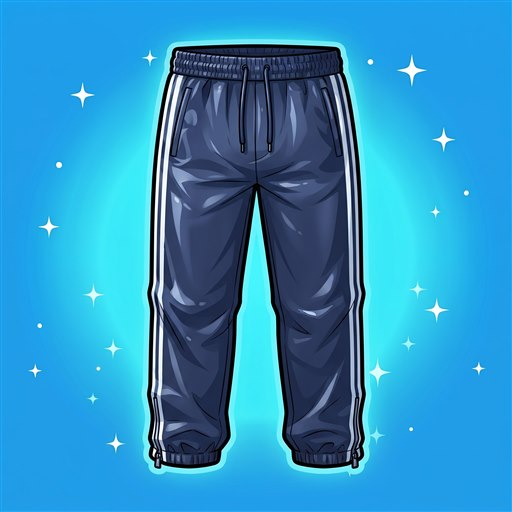
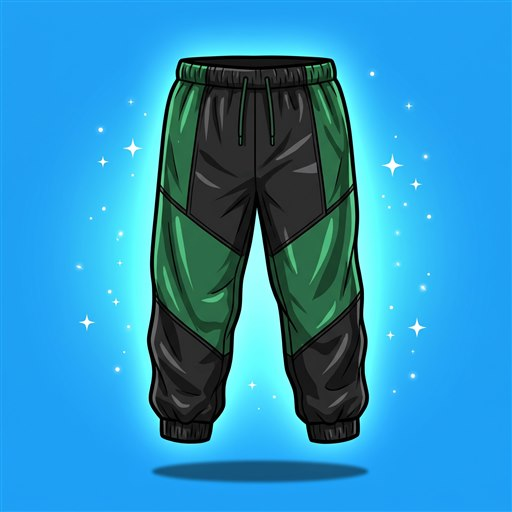
New art for 15 items without brands: 4 trousers, 5 jackets, 6 watches (rose gold watch now on a gold card)

diff --git a/js/data.js b/js/data.js
@@ -81,19 +81,19 @@ export const ITEM_BASES = {
   // jacket and pants give armor (share of damage stopped, see F.reduction)
   // trousers: all common (blue background), sold in Oblečenie
   jeans_blue: { slot: 'nohavice', name: 'Modré rifle', art: 'x_jeans_blue', stats: { armor: 2 }, rarity: 'bezny', desc: 'Obyčajné rifle. Presne v takých ťa svedok nevie popísať.' },
-  track_pants: { slot: 'nohavice', name: 'Šuštiaky', art: 'x_track_pants', stats: { armor: 2 }, rarity: 'bezny', desc: 'Šuchocú pri každom kroku. Na tiché vlámanie si vezmi niečo iné.' },
+  track_pants: { slot: 'nohavice', name: 'Šušťákové nohavice', art: 'x_track_pants', stats: { armor: 2 }, rarity: 'bezny', desc: 'Šuchocú pri každom kroku. Na tiché vlámanie si vezmi niečo iné.' },
   cargo_olive: { slot: 'nohavice', name: 'Olivové kapsáče', art: 'x_cargo_olive', stats: { armor: 2 }, rarity: 'bezny', desc: 'Bočné vrecká na všetko, čo nemáš mať pri sebe. Šnúrky dole proti prievanu aj psom.' },
   carpenter_pants: { slot: 'nohavice', name: 'Robotnícke nohavice', art: 'x_carpenter_pants', stats: { armor: 2 }, rarity: 'bezny', desc: 'Dvojité kolená, lebo na kolenách sa tu často končí. Aj začína.' },
   cargo_camo: { slot: 'nohavice', name: 'Maskáčové kapsáče', art: 'x_cargo_camo', stats: { armor: 2 }, rarity: 'bezny', desc: 'Maskáč v meste nemaskuje nič. Ale vyzerá, že vieš, čo robíš.' },
   sweatpants: { slot: 'nohavice', name: 'Sivé tepláky', art: 'x_sweatpants', stats: { armor: 2 }, rarity: 'bezny', desc: 'Večierka o druhej ráno, výsluch o tretej. Pohodlné na oboje.' },
   jeans_ripped: { slot: 'nohavice', name: 'Roztrhané čierne rifle', art: 'x_jeans_ripped', stats: { armor: 2 }, rarity: 'bezny', desc: 'Diery na kolenách nie sú z módy. Sú z plota pri Starom moste.' },
   shorts_ball: { slot: 'nohavice', name: 'Basketbalové trenky', art: 'x_shorts_ball', stats: { armor: 2 }, rarity: 'bezny', desc: 'Fialovo-zlaté, dlhé po kolená. Na ihrisku za bytovkou sa v nich rozdávajú karty aj rany.' },
-  cargo_compass: { slot: 'nohavice', name: 'Grafitové kapsáče s kompasom', art: 'x_cargo_compass', stats: { armor: 2 }, rarity: 'epicky', desc: 'Kompas na vrecku, aby si vždy trafil k Čiernemu trhu. Domov už nie.' },
-  track_monogram: { slot: 'nohavice', name: 'Monogramové tepláky', art: 'x_track_monogram', stats: { armor: 2 }, rarity: 'epicky', desc: 'Zlaté písmená od pása po členky. Kto ich nosí, nemusí nikomu hovoriť, koľko zarobil.' },
+  cargo_compass: { slot: 'nohavice', name: 'Čierne kapsáče s reťazou', art: 'x_cargo_compass', stats: { armor: 2 }, rarity: 'epicky', desc: 'Šesť vreciek, popruhy a reťaz od peňaženky. Vreckár by si na nich vylámal prsty.' },
+  track_monogram: { slot: 'nohavice', name: 'Zamatové tepláky', art: 'x_track_monogram', stats: { armor: 2 }, rarity: 'epicky', desc: 'Smaragdový zamat a zlaté zipsy na vreckách. Pohodlné ako pyžamo, drahé ako oblek.' },
   jeans_biker: { slot: 'nohavice', name: 'Rozbité rifle s chráničmi', art: 'x_jeans_biker', stats: { armor: 2 }, rarity: 'epicky', desc: 'Diery stoja viac ako celé nohavice v obchode. Čierne chrániče sú tam pre prípad, že kľačíš pred niekým, kto ti dlží.' },
-  leather_crosses: { slot: 'nohavice', name: 'Kožené nohavice so striebornými krížmi', art: 'x_leather_crosses', stats: { armor: 2 }, rarity: 'legendarny', desc: 'Šnurovanie po bokoch a strieborné kríže. Nosí ich ten, kto sa za hriechy nemodlí, ale platí. Vypadnú len z bossa.' },
+  leather_crosses: { slot: 'nohavice', name: 'Pytónové nohavice', art: 'x_leather_crosses', stats: { armor: 2 }, rarity: 'legendarny', desc: 'Čierno-zlatá hadia koža od pása po členky. Had ich nosil prvý, ty druhý. Vypadnú len z bossa.' },
   // illustrated pieces with a fixed rarity (art background: blue = common, pink = epic, gold / purple = legendary)
-  jacket_puffer: { slot: 'bunda', name: 'Lesklá páperovka', art: 'x_jacket_puffer', stats: { armor: 3 }, rarity: 'epicky', desc: 'Lesk ako čerstvo navoskované auto. Na corneri ťa v nej spoznajú aj potme.' },
+  jacket_puffer: { slot: 'bunda', name: 'Kožená letecká bunda', art: 'x_jacket_puffer', stats: { armor: 3 }, rarity: 'epicky', desc: 'Hnedá koža, kožušinový golier a zips, ktorý vydrží aj pád z motorky. Stará škola nevyjde z módy.' },
   // jackets: blue background = common (shops), pink = epic (Black Market), gold = legendary (bosses)
   puffer_red: { slot: 'bunda', name: 'Červená páperovka', art: 'x_puffer_red', stats: { armor: 3 }, rarity: 'bezny', desc: 'Teplá, lacná a vidno ju z druhého konca ulice. Na tiché akcie sa nehodí.' },
   varsity_gold: { slot: 'bunda', name: 'Klubová bunda so zlatými rukávmi', art: 'x_varsity_gold', stats: { armor: 3 }, rarity: 'bezny', desc: 'Z bazáru. Tím, za ktorý kedysi hrala, už dávno neexistuje. Ty áno.' },
@@ -101,10 +101,10 @@ export const ITEM_BASES = {
   varsity_red: { slot: 'bunda', name: 'Školská bunda s H', art: 'x_varsity_red', stats: { armor: 3 }, rarity: 'bezny', desc: 'H ako Hits. Alebo Hustler. Alebo Hlupák, záleží, kto sa pýta.' },
   work_jacket: { slot: 'bunda', name: 'Robotnícka bunda', art: 'x_work_jacket', stats: { armor: 3 }, rarity: 'bezny', desc: 'Menčestrový golier a ošúchané lakte. Vyzeráš, že poctivo robíš. Nerobíš.' },
   bomber_olive: { slot: 'bunda', name: 'Olivová bomberka', art: 'x_bomber_olive', stats: { armor: 3 }, rarity: 'bezny', desc: 'Oranžová podšívka svieti ako výstražné svetlo. Ideálna na rýchle odchody.' },
-  track_navy: { slot: 'bunda', name: 'Tepláková bunda', art: 'x_track_navy', stats: { armor: 3 }, rarity: 'bezny', desc: 'Tri pásiky, jeden zips a nulový rešpekt k dress codu.' },
-  jacket_compass: { slot: 'bunda', name: 'Bunda s kompasom', art: 'x_jacket_compass', stats: { armor: 3 }, rarity: 'epicky', desc: 'Odznak s kompasom na rukáve. Ukazuje jediný smer, ktorý poznáš: preč od polície.' },
-  parka_fur: { slot: 'bunda', name: 'Parka s kožušinou', art: 'x_parka_fur', stats: { armor: 3 }, rarity: 'epicky', desc: 'Kapucňa s kožušinou a štyri vrecká. Nikto nevie, čo v nich nosíš, a tak to má byť.' },
-  puffer_hood: { slot: 'bunda', name: 'Čierna páperovka s kapucňou', art: 'x_puffer_hood', stats: { armor: 3 }, rarity: 'epicky', desc: 'Čierna a lesklá ako mokrý asfalt o tretej ráno. Zima ťa v nej nedostane. Konkurencia možno.' },
+  track_navy: { slot: 'bunda', name: 'Šušťáková bunda', art: 'x_track_navy', stats: { armor: 3 }, rarity: 'bezny', desc: 'Rovno z deväťdesiatok: čierna, zelená, biela a jeden zips pod bradu. Nulový rešpekt k dress codu.' },
+  jacket_compass: { slot: 'bunda', name: 'Saténová bunda s drakom', art: 'x_jacket_compass', stats: { armor: 3 }, rarity: 'epicky', desc: 'Čierny satén a zlatý drak na hrudi. Drak strážil poklad, ty strážiš rajón.' },
+  parka_fur: { slot: 'bunda', name: 'Čierny kožuch', art: 'x_parka_fur', stats: { armor: 3 }, rarity: 'epicky', desc: 'Dlhý, huňatý a čierny ako noc. Schová sa pod ním čokoľvek, aj brokovnica.' },
+  puffer_hood: { slot: 'bunda', name: 'Čierna mikina so zlatým zipsom', art: 'x_puffer_hood', stats: { armor: 3 }, rarity: 'epicky', desc: 'Kapucňa cez hlavu, ruky vo vrecku a zlatý zips až po bradu. Kamery vidia len tieň.' },
   biker_jacket: { slot: 'bunda', name: 'Motorkárska bunda', art: 'x_biker_jacket', stats: { armor: 3 }, rarity: 'bezny', desc: 'Šikmý zips, opasok a cvočky. Motorku nemáš, ale vyzeráš, že ťa niekde čaká.' },
   denim_jacket: { slot: 'bunda', name: 'Rifľová bunda', art: 'x_denim_jacket', stats: { armor: 3 }, rarity: 'bezny', desc: 'Vyblednutá od slnka aj od policajných svetiel. Klasika, ktorá nikdy nepýta otázky.' },
   coat_camel: { slot: 'bunda', name: 'Kabát z ťavej vlny', art: 'x_coat_camel', stats: { armor: 3 }, rarity: 'legendarny', desc: 'Dvojradový kabát, aký nosia muži, ktorí sa nikomu nemusia predstavovať. Vypadne len z bossa.' },
@@ -152,10 +152,10 @@ export const ITEM_BASES = {
   neck_tennis: { slot: 'retiazka', name: 'Diamantová tenisová retiazka', art: 'x_neck_tennis', stats: { charizma: 0.6 }, rarity: 'epicky', desc: 'Rad diamantov bez konca. Na tenis si ju nikto nikdy neobliekol.' },
   neck_clover: { slot: 'retiazka', name: 'Retiazka s čiernymi štvorlístkami', art: 'x_neck_clover', stats: { charizma: 0.6 }, rarity: 'epicky', desc: 'Päť čiernych štvorlístkov na zlatej retiazke. Šťastie, ktoré si niekto zaplatil vopred.' },
   neck_king: { slot: 'retiazka', name: 'Ľadová retiaz s kráľom', art: 'x_neck_king', stats: { charizma: 0.6 }, rarity: 'legendarny', desc: 'Šachový kráľ z diamantov s rubínom na hrudi. Pešiak sa stal kráľom. Vypadne len z bossa.' },
-  watch_rose: { slot: 'hodinky', name: 'Hodinky z ružového zlata', art: 'x_watch_rose', stats: { charizma: 0.3, stastie: 0.3 }, rarity: 'legendarny' },
-  watch_green: { slot: 'hodinky', name: 'Zelený ciferník', art: 'x_watch_green', stats: { charizma: 0.3, stastie: 0.3 }, rarity: 'legendarny' },
+  watch_rose: { slot: 'hodinky', name: 'Hodinky z ružového zlata', art: 'x_watch_rose', stats: { charizma: 0.3, stastie: 0.3 }, rarity: 'legendarny', desc: 'Tenké ako bankovka, ružové zlato a diamanty namiesto čísel. Nosia sa k obleku, nie k teplákom. Vypadnú len z bossa.' },
+  watch_green: { slot: 'hodinky', name: 'Smaragdové hodinky', art: 'x_watch_green', stats: { charizma: 0.3, stastie: 0.3 }, rarity: 'legendarny', desc: 'Venček smaragdov okolo čierneho ciferníka. Zelené ako peniaze, len vydržia dlhšie. Vypadnú len z bossa.' },
   // watches: blue = common (Šperky), pink = epic (Black Market), gold = legendary (bosses)
-  watch_smart: { slot: 'hodinky', name: 'Chytré hodinky', art: 'x_watch_smart', stats: { charizma: 0.3, stastie: 0.3 }, rarity: 'bezny', desc: 'Rátajú kroky, tep aj kalórie. Polícia by rada vedela, kde všade si dnes bol.' },
+  watch_smart: { slot: 'hodinky', name: 'Hodinky s oranžovým remienkom', art: 'x_watch_smart', stats: { charizma: 0.3, stastie: 0.3 }, rarity: 'bezny', desc: 'Gumené, odolné a so stopkami. Odmeriaš si, za koľko obehneš blok aj s policajtmi za chrbtom.' },
   watch_gold_chrono: { slot: 'hodinky', name: 'Pozlátený chronograf', art: 'x_watch_gold_chrono', stats: { charizma: 0.3, stastie: 0.3 }, rarity: 'bezny', desc: 'Tri malé ciferníky a ani jeden neukazuje správny čas. Zlato sa zotrie do leta.' },
   watch_calc: { slot: 'hodinky', name: 'Hodinky s kalkulačkou', art: 'x_watch_calc', stats: { charizma: 0.3, stastie: 0.3 }, rarity: 'bezny', desc: 'Účtovník gangu na zápästí. Podiel z lupu si vyrátaš skôr, ako sa ostatní spýtajú.' },
   watch_field: { slot: 'hodinky', name: 'Vojenské hodinky', art: 'x_watch_field', stats: { charizma: 0.3, stastie: 0.3 }, rarity: 'bezny', desc: 'Látkový remienok, čísla čitateľné aj v tme pod mostom. Po starom otcovi, vraj.' },
@@ -164,9 +164,9 @@ export const ITEM_BASES = {
   watch_plastic: { slot: 'hodinky', name: 'Plastové hodinky s hviezdičkami', art: 'x_watch_plastic', stats: { charizma: 0.3, stastie: 0.3 }, rarity: 'bezny', desc: 'Žiarivo žltý remienok a hviezdičky. Nikto ťa nebude brať vážne, a presne o to ide.' },
   watch_rugged: { slot: 'hodinky', name: 'Odolné digitálky', art: 'x_watch_rugged', stats: { charizma: 0.3, stastie: 0.3 }, rarity: 'bezny', desc: 'Prežijú pád zo štvrtého poschodia. Ty asi nie.' },
   watch_digital: { slot: 'hodinky', name: 'Čierne digitálky', art: 'x_watch_digital', stats: { charizma: 0.3, stastie: 0.3 }, rarity: 'bezny', desc: 'Lacné, presné, nezničiteľné. Majú ich všetci, takže svedkovia si ich nezapamätajú.' },
-  watch_daydate: { slot: 'hodinky', name: 'Zlaté hodinky s dňom a dátumom', art: 'x_watch_daydate', stats: { charizma: 0.3, stastie: 0.3 }, rarity: 'epicky', desc: 'Ukazujú aj deň v týždni, aby si vedel, kedy je splatný dlh. Celé zo zlata, aj náramok.' },
-  watch_sub_green: { slot: 'hodinky', name: 'Oceľový potápač so zeleným lunetom', art: 'x_watch_sub_green', stats: { charizma: 0.3, stastie: 0.3 }, rarity: 'epicky', desc: 'Zelený ako peniaze, ktoré stáli. Na prvé stretnutie s Donom sa nosia práve tieto.' },
-  watch_diamond: { slot: 'hodinky', name: 'Diamantové hodinky s odkrytým strojčekom', art: 'x_watch_diamond', stats: { charizma: 0.3, stastie: 0.3 }, rarity: 'legendarny', desc: 'Stovky diamantov a ozubené kolieska na očiach. Cena by kúpila celú ulicu. Vypadnú len z bossa.' },
+  watch_daydate: { slot: 'hodinky', name: 'Hranaté zlaté hodinky', art: 'x_watch_daydate', stats: { charizma: 0.3, stastie: 0.3 }, rarity: 'epicky', desc: 'Hranaté zlaté puzdro a čierny kožený remienok. Takéto nosil každý starý boss, ktorý sa dožil dôchodku.' },
+  watch_sub_green: { slot: 'hodinky', name: 'Čierne keramické hodinky', art: 'x_watch_sub_green', stats: { charizma: 0.3, stastie: 0.3 }, rarity: 'epicky', desc: 'Celé čierne, len ručičky sú červené ako krv. Odpočítavajú čas, ktorý ti ostáva na splatenie dlhu.' },
+  watch_diamond: { slot: 'hodinky', name: 'Ľadové hodinky', art: 'x_watch_diamond', stats: { charizma: 0.3, stastie: 0.3 }, rarity: 'legendarny', desc: 'Diamanty na lunete aj na každom článku remienka. Na zápästí nosíš celú ulicu. Vypadnú len z bossa.' },
 
   // cars (slot 'auto', from level CONFIG.autoUnlockLevel): car = less heat from everything and shorter missions;
   // every car is shopOnly: only the Autobazár sells them, nothing drops one

diff --git a/js/remote.js b/js/remote.js
@@ -1,10 +1,10 @@
 // Online client: the same SimServer, but only as a read-only mirror of the state the real server sent.
 // Every action goes to the Edge Function "game"; its answer replaces the mirror. Things the server rolls
 // at random (mission offers, shop stock, arena opponents, rival gang moves) are never rolled here.
-import { SimServer } from './server.js?v=20261117140319';
-import { NET } from './net.js?v=20261117140319';
-import { CONFIG } from './config.js?v=20261117140319';
-import { SHOPS } from './data.js?v=20261117140319';
+import { SimServer } from './server.js?v=20261117212314';
+import { NET } from './net.js?v=20261117212314';
+import { CONFIG } from './config.js?v=20261117212314';
+import { SHOPS } from './data.js?v=20261117212314';
 
 const SUPABASE_JS = 'https://cdn.jsdelivr.net/npm/@supabase/supabase-js@2.45.4/+esm';
 
@@ -31,7 +31,7 @@ export class RemoteServer extends SimServer {
 
   // ?mock in the address: no Supabase, the server API runs in this browser against an in-memory database
   async initMock() {
-    const { handle, memoryDb } = await import('./api.js?v=20261117140319');
+    const { handle, memoryDb } = await import('./api.js?v=20261117212314');
     const db = memoryDb();
     const fake = { user: { id: 'mock-user', email: 'test@mock' } };
     this.sb = { auth: { signOut: async () => {}, signInWithPassword: async () => ({ data: { session: fake } }), signUp: async () => ({ data: { session: fake } }), resetPasswordForEmail: async () => ({}) } };

diff --git a/js/ui.js b/js/ui.js
@@ -1,11 +1,11 @@
 // HTML interface: HUD, menus, screens, modals. Talks only to the (simulated) server.
-import { STATS, STAT_NAMES, CLASSES, RARITIES, CONFIG, F } from './config.js?v=20261117140319';
-import { SLOTS, ITEM_BASES, SHOPS, MISSIONS, GIVERS, BOSSES, GANG_COLORS, GANG_RANKS, GANG_UPGRADES, CITIES } from './data.js?v=20261117140319';
-import { EVENTS, EVENT_ROTATION, activeEvents, nextEvents } from './events.js?v=20261117140319';
-import { DAILY_TYPES } from './daily.js?v=20261117140319';
-import { LOOK_BASE, LOOK_PARTS } from './looks.js?v=20261117140319';
-import { sound } from './sound.js?v=20261117140319';
-import { MEDALS, MEDAL_TIERS, MEDAL_COUNT, medalSvg, frameHtml, medalTotal } from './medals.js?v=20261117140319';
+import { STATS, STAT_NAMES, CLASSES, RARITIES, CONFIG, F } from './config.js?v=20261117212314';
+import { SLOTS, ITEM_BASES, SHOPS, MISSIONS, GIVERS, BOSSES, GANG_COLORS, GANG_RANKS, GANG_UPGRADES, CITIES } from './data.js?v=20261117212314';
+import { EVENTS, EVENT_ROTATION, activeEvents, nextEvents } from './events.js?v=20261117212314';
+import { DAILY_TYPES } from './daily.js?v=20261117212314';
+import { LOOK_BASE, LOOK_PARTS } from './looks.js?v=20261117212314';
+import { sound } from './sound.js?v=20261117212314';
+import { MEDALS, MEDAL_TIERS, MEDAL_COUNT, medalSvg, frameHtml, medalTotal } from './medals.js?v=20261117212314';
 
 const $ = (sel, el = document) => el.querySelector(sel);
 const fmt = (n) => Math.round(n).toLocaleString('sk-SK');

diff --git a/js/server.js b/js/server.js
@@ -1,12 +1,12 @@
 // Simulated game server. Every rule about money, rewards and fights lives here, so this module
 // can later move to a real backend (Supabase / Nakama) while the client keeps the same calls.
-import { CONFIG, F, STATS, STAT_NAMES, CLASSES, RARITIES, clamp, localParts } from './config.js?v=20261117140319';
-import { eventFx } from './events.js?v=20261117140319';
-import { ITEM_BASES, SHOPS, MISSIONS, GIVERS, BOSSES, BOSSES2, BOT_NAMES, SLOTS, CITIES } from './data.js?v=20261117140319';
-import { makeFighter, simulate, mulberry32 } from './combat.js?v=20261117140319';
-import { GangMixin } from './gangs.js?v=20261117140319';
-import { DailyMixin } from './daily.js?v=20261117140319';
-import { MEDALS, MEDAL_TIERS, medalProgress, medalTiers, medalTotal } from './medals.js?v=20261117140319';
+import { CONFIG, F, STATS, STAT_NAMES, CLASSES, RARITIES, clamp, localParts } from './config.js?v=20261117212314';
+import { eventFx } from './events.js?v=20261117212314';
+import { ITEM_BASES, SHOPS, MISSIONS, GIVERS, BOSSES, BOSSES2, BOT_NAMES, SLOTS, CITIES } from './data.js?v=20261117212314';
+import { makeFighter, simulate, mulberry32 } from './combat.js?v=20261117212314';
+import { GangMixin } from './gangs.js?v=20261117212314';
+import { DailyMixin } from './daily.js?v=20261117212314';
+import { MEDALS, MEDAL_TIERS, medalProgress, medalTiers, medalTotal } from './medals.js?v=20261117212314';
 
 const KEY = 'hitsnlicks.save.v1';
 const MIN = 60000;

diff --git a/js/world.js b/js/world.js
@@ -1,9 +1,9 @@
 // The open world: pixel-art city, player movement, NPCs, traffic, police. Uses global Phaser.
 // A city comes from its city.json (tools/mapa.ps1 builds them from tools/art/City.cs, City2.cs): a collision grid,
 // a street graph that cars, police, walkers, the Ripper and the runner move on, and the buildings (marks).
-import { CITIES, WALKER_SPRITES } from './data.js?v=20261117140319';
-import { mulberry32 } from './combat.js?v=20261117140319'; // the server's generator: a task's seed hides its packages on the same corners everywhere
-import { sound } from './sound.js?v=20261117140319';
+import { CITIES, WALKER_SPRITES } from './data.js?v=20261117212314';
+import { mulberry32 } from './combat.js?v=20261117212314'; // the server's generator: a task's seed hides its packages on the same corners everywhere
+import { sound } from './sound.js?v=20261117212314';
 
 const PEOPLE = ['hrac', 'zlodej', 'svalovec', 'dealer', 'boss', 'zadavatel', 'diler', 'mechanik', 'pravnicka', 'lekarka', 'policajt', 'chodkyna', 'chodec'];
 const CARS = ['sedan_blue', 'sedan_red', 'sedan_green', 'sedan_white', 'taxi', 'police', 'van', 'pickup'];

diff --git a/js/main.js b/js/main.js
@@ -1,10 +1,10 @@
-import { SimServer } from './server.js?v=20261117140319';
-import { RemoteServer } from './remote.js?v=20261117140319';
-import { ONLINE } from './net.js?v=20261117140319';
-import { CONFIG } from './config.js?v=20261117140319';
-import { UI } from './ui.js?v=20261117140319';
-import { createWorld } from './world.js?v=20261117140319';
-import { sound } from './sound.js?v=20261117140319';
+import { SimServer } from './server.js?v=20261117212314';
+import { RemoteServer } from './remote.js?v=20261117212314';
+import { ONLINE } from './net.js?v=20261117212314';
+import { CONFIG } from './config.js?v=20261117212314';
+import { UI } from './ui.js?v=20261117212314';
+import { createWorld } from './world.js?v=20261117212314';
+import { sound } from './sound.js?v=20261117212314';
 
 // warm the browser cache so screens open without blank images
 ['maska', 'diler', 'kladivo', 'fightbg', 'it_pistol', 'it_bat', 'it_watch', 'it_duffel', 'it_package', 'it_keys']

diff --git a/js/gangs.js b/js/gangs.js
@@ -5,9 +5,9 @@
 //   ctx.people = { playerId: { name, level, cls, fighter, gangId } } for members, requests and defenders
 // and saves whatever changed in one go. Offline (no server) the gang and the city live in the save itself
 // and the player is the only member. Mixed into SimServer, so `this` is the server.
-import { CONFIG, F, STATS, CLASSES } from './config.js?v=20261117140319';
-import { ALL_TURF, TURF_KINDS, RIVAL_GANGS, GANG_COLORS, GANG_UPGRADES, BOT_NAMES } from './data.js?v=20261117140319';
-import { makeFighter, simulate, mulberry32 } from './combat.js?v=20261117140319';
+import { CONFIG, F, STATS, CLASSES } from './config.js?v=20261117212314';
+import { ALL_TURF, TURF_KINDS, RIVAL_GANGS, GANG_COLORS, GANG_UPGRADES, BOT_NAMES } from './data.js?v=20261117212314';
+import { makeFighter, simulate, mulberry32 } from './combat.js?v=20261117212314';
 
 const MIN = 60000;
 const ok = (data = {}) => ({ ok: true, ...data });

diff --git a/index.html b/index.html
@@ -8,7 +8,7 @@
 <link rel="preconnect" href="https://fonts.googleapis.com">
 <link rel="preconnect" href="https://fonts.gstatic.com" crossorigin>
 <link href="https://fonts.googleapis.com/css2?family=Grenze+Gotisch:wght@500;700;900&amp;family=EB+Garamond:ital,wght@0,400;0,500;0,600;0,700;1,400&amp;display=swap" rel="stylesheet">
-<link rel="stylesheet" href="css/style.css?v=20261117140319">
+<link rel="stylesheet" href="css/style.css?v=20261117212314">
 <script src="https://cdn.jsdelivr.net/npm/phaser@3.80.1/dist/phaser.min.js"></script>
 </head>
 <body>
@@ -82,6 +82,6 @@
   <div id="modal" hidden></div>
   <div id="toasts"></div>
 </div>
-<script type="module" src="js/main.js?v=20261117140319"></script>
+<script type="module" src="js/main.js?v=20261117212314"></script>
 </body>
 </html>

diff --git a/js/daily.js b/js/daily.js
@@ -2,8 +2,8 @@
 // 15-day reward calendar (cash, a level, gold bars, a legendary item on day 15). A skipped day just waits.
 // The map reports progress (dailyStep); the server picks the places, counts and checks the timing.
 // Mixed into SimServer, so `this` is the server.
-import { CONFIG, F } from './config.js?v=20261117140319';
-import { ITEM_BASES, DAILY_SPOT_IDS, CITIES } from './data.js?v=20261117140319';
+import { CONFIG, F } from './config.js?v=20261117212314';
+import { ITEM_BASES, DAILY_SPOT_IDS, CITIES } from './data.js?v=20261117212314';
 
 const ok = (data = {}) => ({ ok: true, ...data });
 const fail = (error) => ({ ok: false, error });

diff --git a/js/api.js b/js/api.js
@@ -24,8 +24,8 @@
 //   hall(n) -> [{ id, name, level, cls, points, club }]   (highest level first; club = Podzemné zápasy floor)
 //   addPoints(id, delta)
 //   deletePlayer(id)
-import { SimServer } from './server.js?v=20261117140319';
-import { GIVERS, SHOPS } from './data.js?v=20261117140319';
+import { SimServer } from './server.js?v=20261117212314';
+import { GIVERS, SHOPS } from './data.js?v=20261117212314';
 
 const memStore = { load: () => null, save() {}, clear() {} };
 const fail = (error) => ({ ok: false, error });

diff --git a/js/sound.js b/js/sound.js
@@ -2,7 +2,7 @@
 // sound.play(name, { delay, vol }) plays one effect; sound.weapon(base) / sound.equip(base) pick the
 // effect that fits an item. On/off is per device (localStorage), off by default only if the player turned it off.
 // Browsers start audio muted until the first touch or key, so nothing plays before that.
-import { ITEM_BASES } from './data.js?v=20261117140319';
+import { ITEM_BASES } from './data.js?v=20261117212314';
 
 const KEY = 'hl_sound';
 let enabled = true;

diff --git a/js/events.js b/js/events.js
@@ -2,7 +2,7 @@
 // a better one and a weaker one, following a 6-weekend rotation. Server and client compute them from the date,
 // so every player has the same weekend. fx() merges what the active events change; the game reads it where
 // rewards, prices and timers are worked out.
-import { localParts } from './config.js?v=20261117140319';
+import { localParts } from './config.js?v=20261117212314';
 
 const DAY = 86400000;
 
